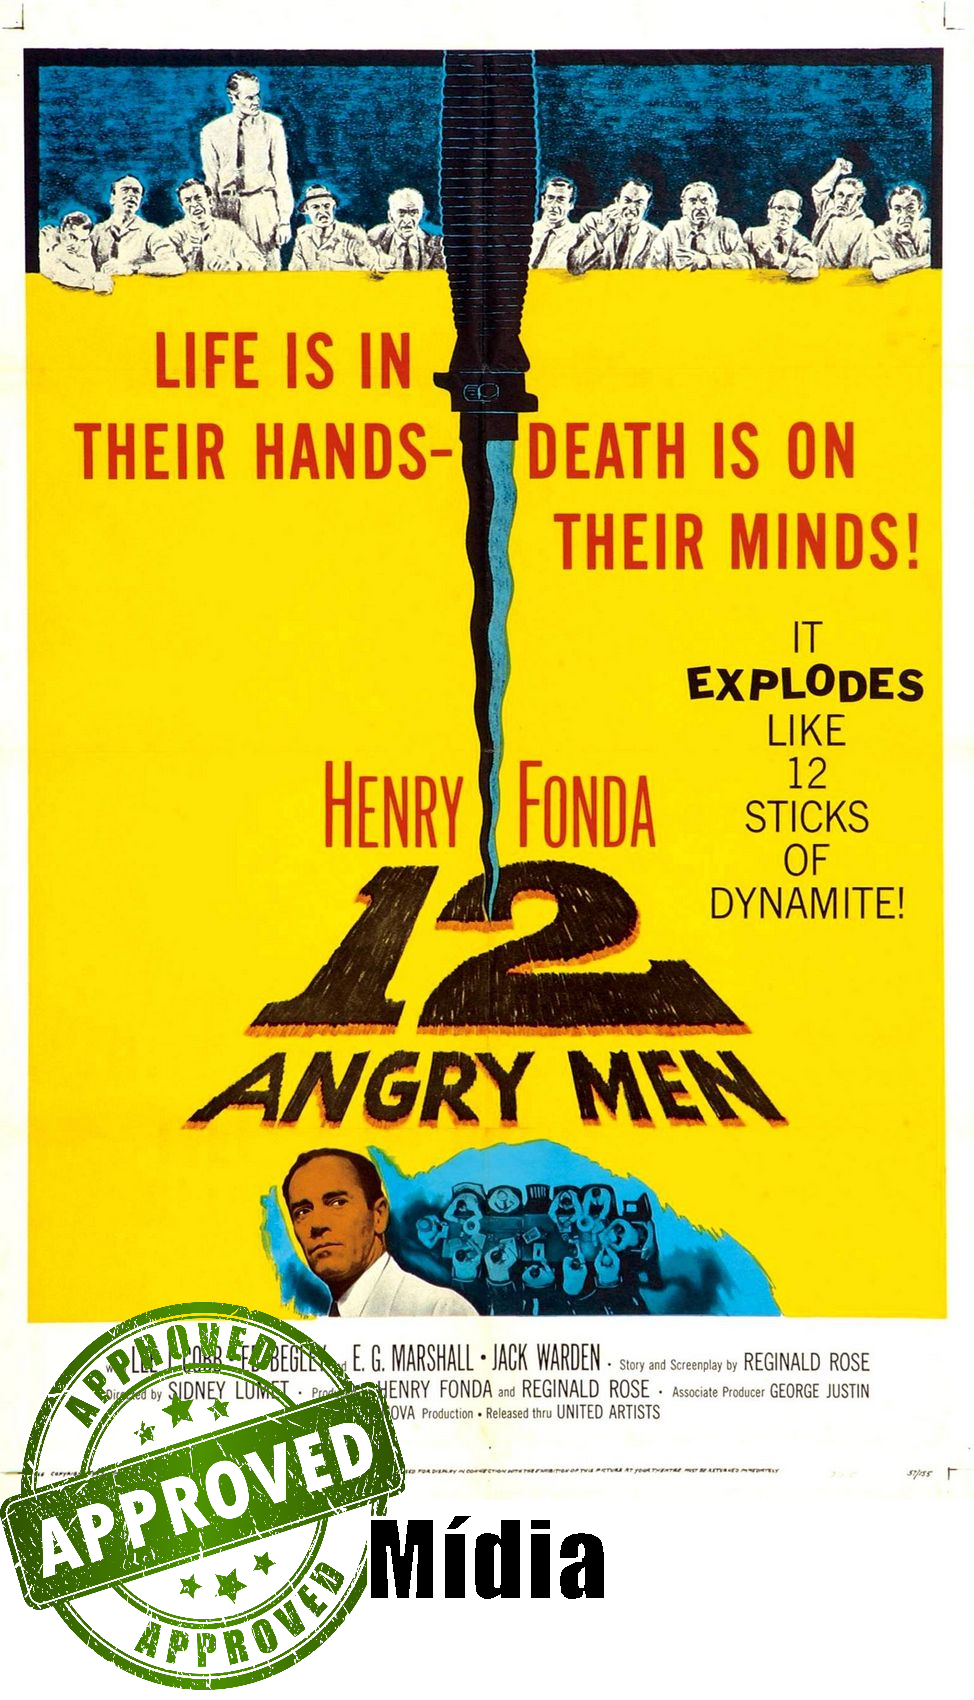
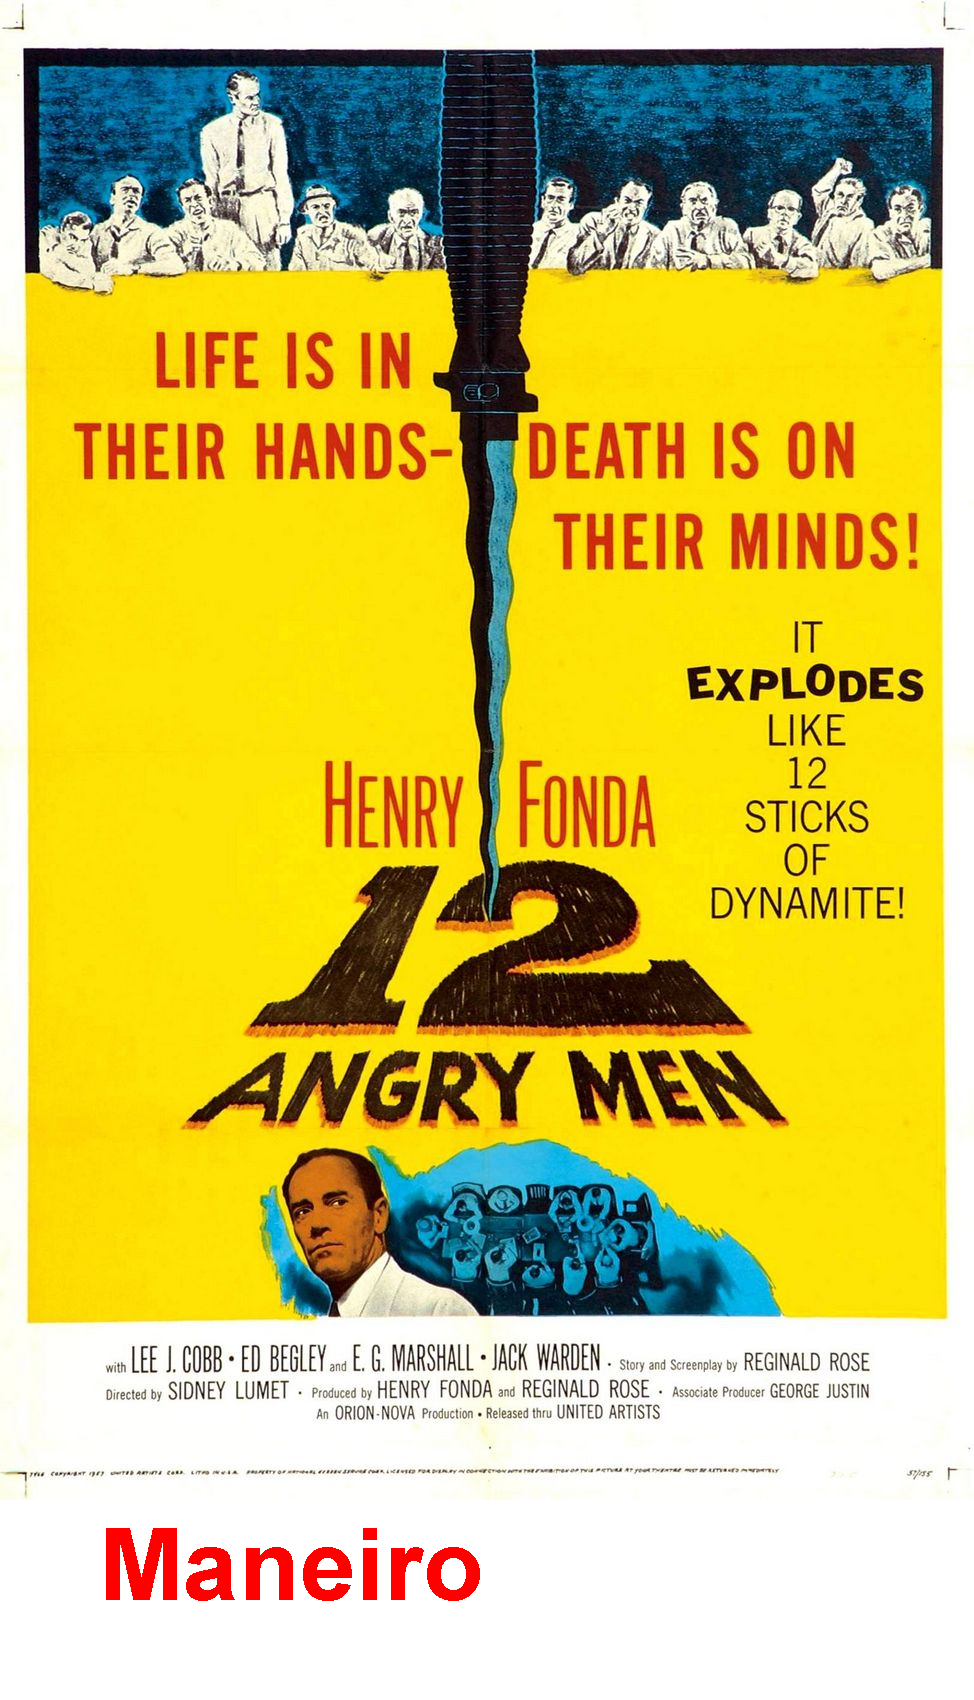
fixed the app codes and Gerador de Figurinhas

Changed region(s): [[0.0, 0.7482, 0.6468, 0.9976]]

diff --git a/src/GeradoraDeFigurinhas.java b/src/GeradoraDeFigurinhas.java
@@ -1,13 +1,6 @@
-import java.awt.BasicStroke;
 import java.awt.Color;
 import java.awt.Font;
-import java.awt.FontMetrics;
 import java.awt.Graphics2D;
-import java.awt.Shape;
-import java.awt.font.FontRenderContext;
-import java.awt.font.TextLayout;
-import java.awt.geom.AffineTransform;
-import java.awt.geom.Rectangle2D;
 import java.awt.image.BufferedImage;
 import java.io.File;
 import java.io.IOException;
@@ -19,10 +12,12 @@ import javax.imageio.ImageIO;
 public class GeradoraDeFigurinhas {
     
 
-    public void cria(InputStream inputStream, String nomeArquivo, String texto, InputStream InputStreamSobreposicao) throws IOException {
+    public void cria(InputStream inputStream, String nomeArquivo) throws IOException {
 
         // leitura da imagem 
+        
         // InputStream inputStream = new FileInputStream(new File("alura-Stickers/Entrada/filme.jpg"));
+
         // InputStream inputStream = new URL("https://raw.githubusercontent.com/alura-cursos/imersao-java-2-api/main/TopMovies_1.jpg").openStream();
 
         BufferedImage ImagemOriginal = ImageIO.read(inputStream);
@@ -39,44 +34,15 @@ public class GeradoraDeFigurinhas {
         Graphics2D graphics = (Graphics2D) NovaImagem.getGraphics();
         graphics.drawImage(ImagemOriginal, 0, 0, null );
 
-        BufferedImage ImagemSobreposicao = ImageIO.read(InputStreamSobreposicao);
-        int imageSeloY = NovaAltura - ImagemSobreposicao.getHeight();
-        graphics.drawImage(ImagemSobreposicao, 0, imageSeloY, null );
-
         // configurar a fonte
 
-        var fonte = new Font("Impact", Font.BOLD, 100);
-        graphics.setColor(Color.BLACK);
+        var fonte = new Font("SANS_SERIF", Font.BOLD, 100);
+        graphics.setColor(Color.RED);
         graphics.setFont(fonte);
 
         // escrever uma frase na nova imagem 
-        
 
-        FontMetrics fontMetrics = graphics.getFontMetrics();
-        Rectangle2D retangulo = fontMetrics.getStringBounds(texto, graphics);
-        int larguraTexto = (int) retangulo.getWidth();
-
-        int posicaoTextoX = (largura - larguraTexto) / 2;
-        int posicaoTextoY = (NovaAltura - 100);
-
-        graphics.drawString(texto, posicaoTextoX , NovaAltura - 100);
-
-
-        FontRenderContext  fontRenderContext = graphics.getFontRenderContext();
-        var textLayout = new TextLayout(texto, fonte, fontRenderContext);
-
-        Shape outline = textLayout.getOutline(null);
-        AffineTransform transform = graphics.getTransform();
-        transform.translate(posicaoTextoX, posicaoTextoY);
-        graphics.setTransform(transform);
-
-        var outlineStroke = new BasicStroke(largura * 0.004f);
-        graphics.setStroke(outlineStroke);
-
-        graphics.setColor(Color.WHITE);
-        graphics.draw(outline);
-        graphics.setClip(outline);
-
+        graphics.drawString("Maneiro", 100 , NovaAltura - 100);
 
         // escrever a nova imagem em um arquivo
 

diff --git a/src/App.java b/src/App.java
@@ -1,5 +1,4 @@
 import java.io.File;
-import java.io.FileInputStream;
 import java.io.InputStream;
 import java.net.URI;
 import java.net.URL;
@@ -16,6 +15,7 @@ public class App {
         // Fazer uma conexão HTTP e buscar os top 250 filmes
 
         String url = "https://raw.githubusercontent.com/alura-cursos/imersao-java-2-api/main/TopMovies.json";
+        
         URI endereco = URI.create(url);
         var client = HttpClient.newHttpClient();
         var request = HttpRequest.newBuilder(endereco).GET().build();
@@ -37,36 +37,17 @@ public class App {
         for (Map<String,String> filme : ListaDeFilmes) {
 
             String urlImagem = filme.get("image");
-            String UrlImagemMaior = urlImagem.replaceFirst("(@?\\.)([0-9A-Z,_]+).jpg$", "$1.jpg");
-            
             String fulltitle = filme.get("fullTitle");
 
-            double catalogacao = Double.parseDouble(filme.get("imDbRating"));
 
-            String textoFigurinha;
-            InputStream ImagemSelo;
-            if (catalogacao >= 8.9) {
-                textoFigurinha = "Mídia";
-                ImagemSelo = new FileInputStream(new File("selos/aprovado.png"));
-            } else {
-                textoFigurinha = "Fraco";
-                ImagemSelo = new FileInputStream(new File("selos/reprovado.png"));
-            }
-
-            InputStream inputStream = new URL(UrlImagemMaior).openStream();
+            InputStream inputStream = new URL(urlImagem).openStream();
             String nomeArquivo = "Figurinhas/" + fulltitle.replaceAll(":", "") + ".png";
 
-            geradora.cria(inputStream, nomeArquivo, textoFigurinha, ImagemSelo );
+            geradora.cria(inputStream, nomeArquivo);
 
-            System.out.println("\u001b[1;44m Titulo: \u001b[m" + "\u001b[1;4;44m" + filme.get("fullTitle") + "\u001b[m");
-            System.out.println("\u001b[1;41m Nota IMDb: \u001b[m" +"\u001b[1;4;41m " + filme.get("imDbRating") + " \u001b[m");
-            double classificacao = Double.parseDouble(filme.get("imDbRating"));
-            int numeroEstrelas = (int) classificacao;
-            for (int n = 1; n <= numeroEstrelas ; n++) {
-                System.out.print("⭐");
-            }
+            System.out.println("\u001b[1;31m Titulo: \u001b[m" + filme.get("fullTitle"));
 
-            System.out.println("\n");
+            System.out.println();
         }
 
     }
